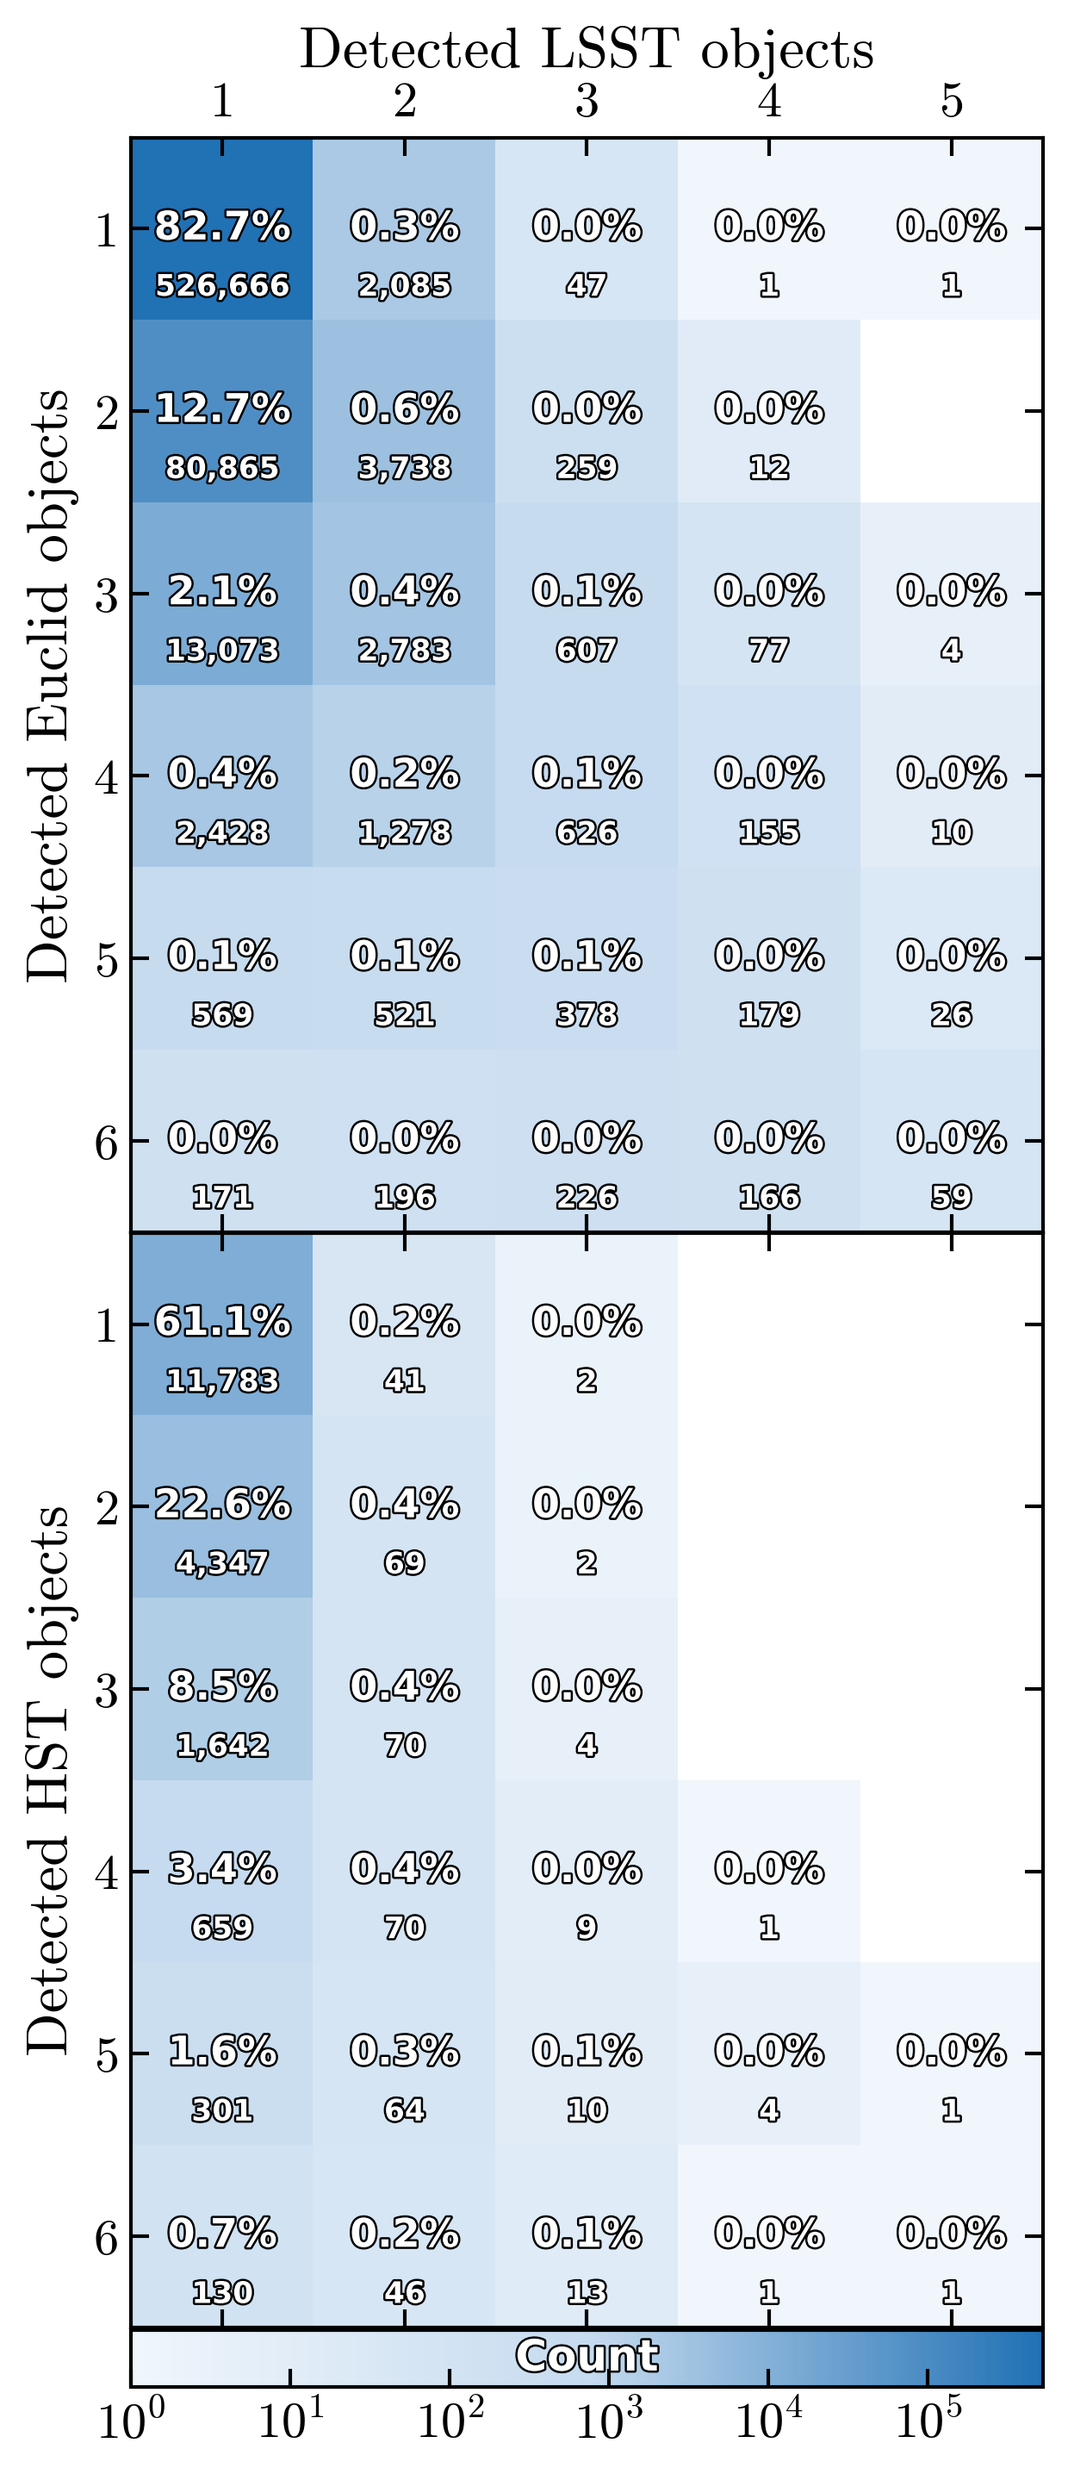
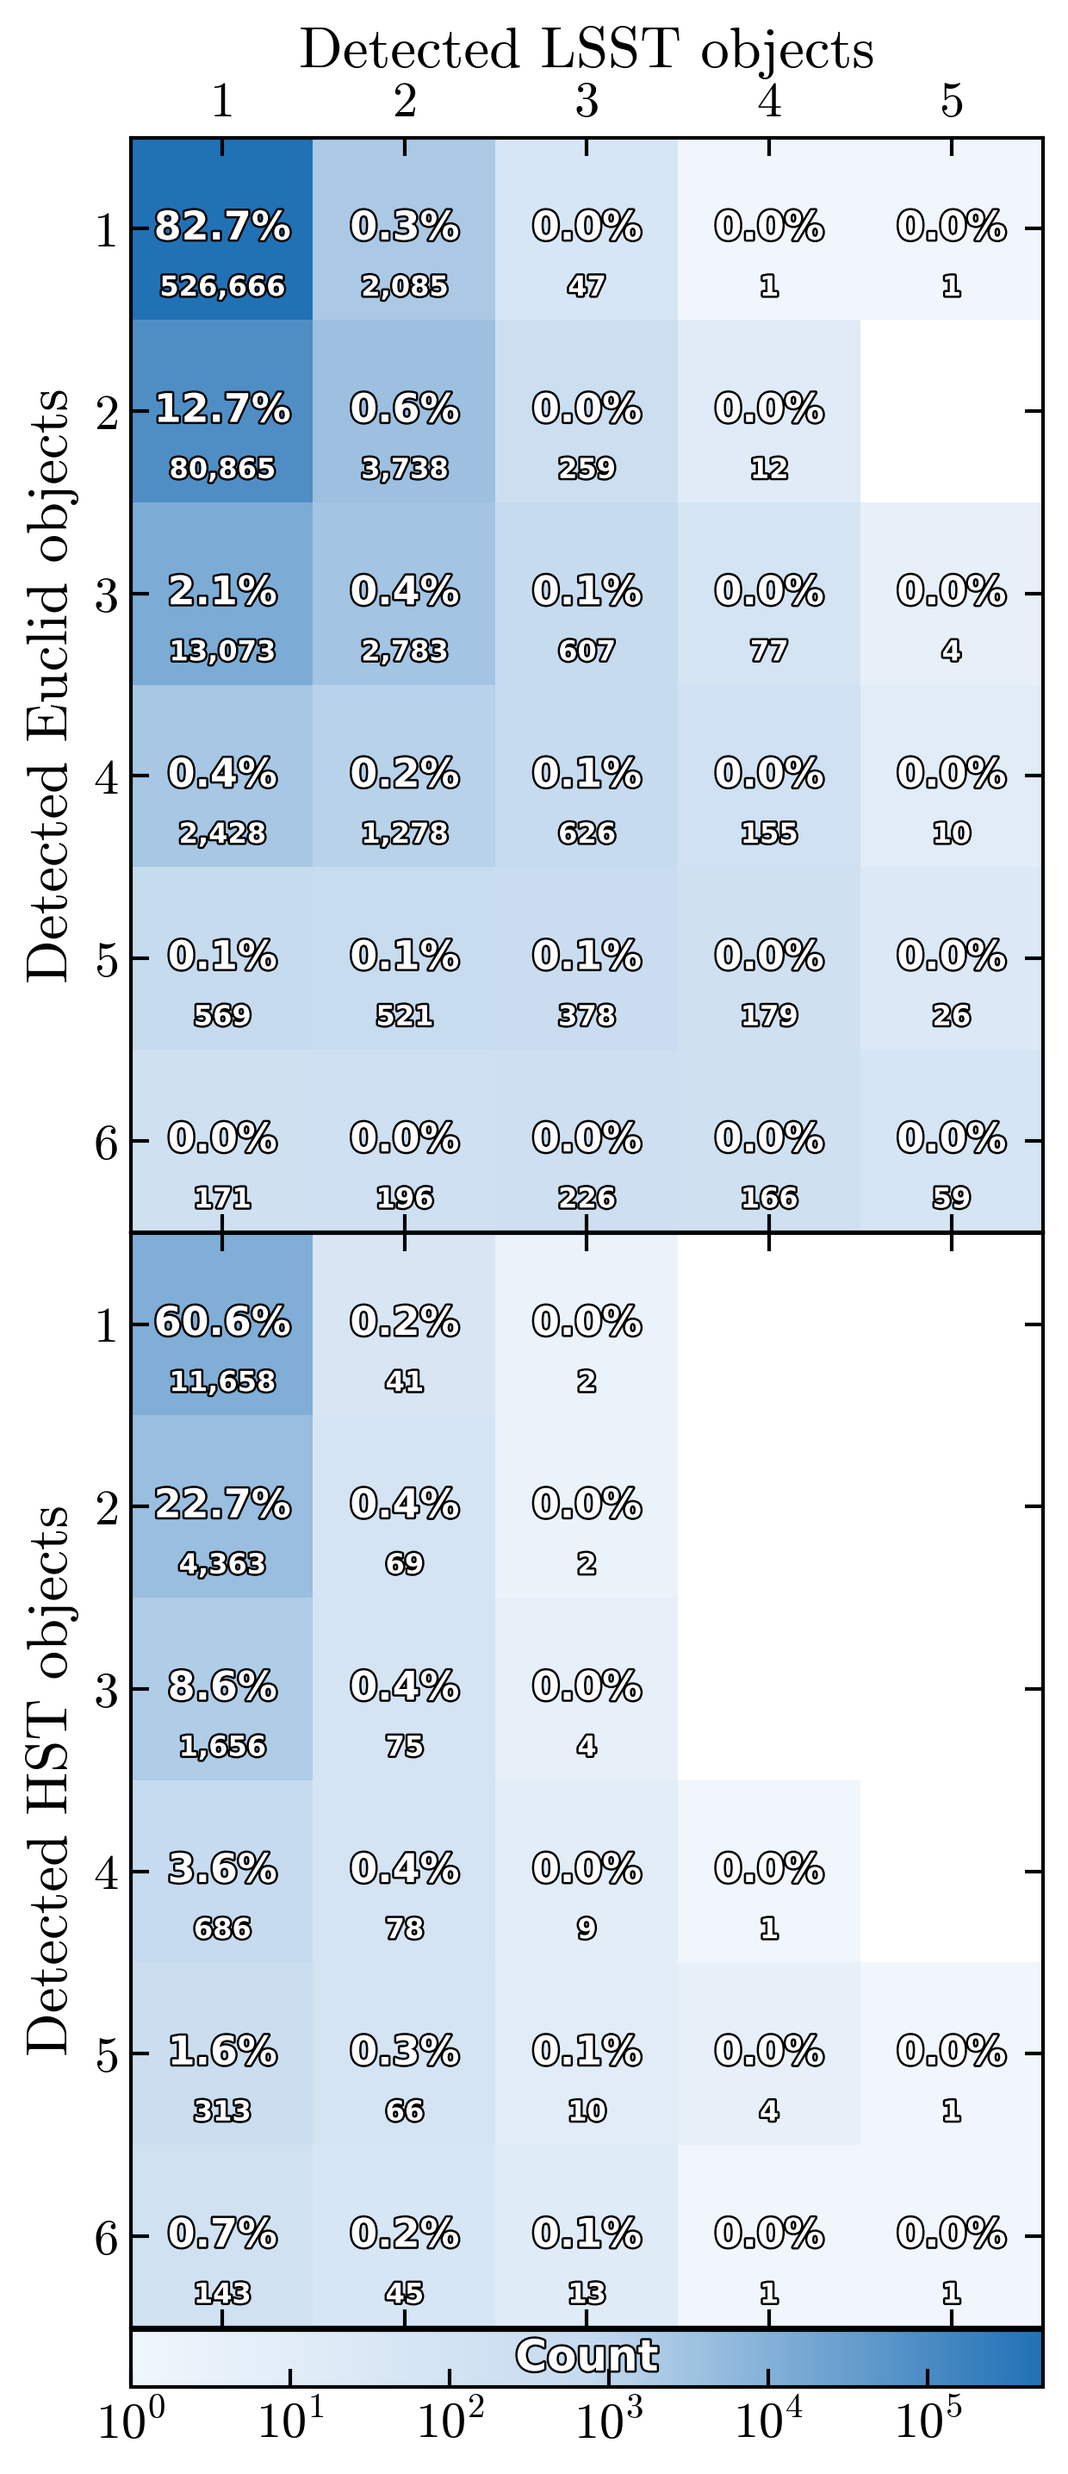
Fixed HST fit bug and modified the technote

diff --git a/index.md b/index.md
@@ -7,15 +7,15 @@ Unrecognized blends, objects that correspond to several truth sources, are a kno
 
 ## Introduction
 
-Blending, where multiple sources visually overlap on the sky, is expected to be a significant source of uncertainty for Stage-IV ground-based surveys like LSST {cite}`Melchior21`. Blended sources can often be identified and deblended. Unrecognized blends are a distinct case: objects that are detected as a single source in the survey data but that correspond to several distinct truth sources. Because the pipeline treats them as isolated objects, their properties (fluxes, colors, shapes) cannot be measured accurately or independently, and they are not flagged as blends. One way to study blending is to compare data from different telescopes with different resolutions and depths. Space-based observations have a higher angular resolution than ground-based ones because they are not affected by atmospheric turbulence, which broadens the point spread function (PSF), so blends unrecognized in ground-based images may be resolved in space-based images.
+Blending, where multiple sources visually overlap on the sky, is expected to be a significant source of uncertainty for Stage-IV ground-based surveys like LSST {cite}`Dawson16,Chang13,Melchior21`. Blended sources can often be identified and deblended. Unrecognized blends are a distinct case: objects that are detected as a single source in the survey data but that correspond to several distinct truth sources. Because the pipeline treats them as isolated objects, their properties (fluxes, colors, shapes) cannot be measured accurately or independently, and they are not flagged as blends. One way to study blending is to compare data from different telescopes with different resolutions and depths. Space-based observations have a higher angular resolution than ground-based ones because they are not affected by atmospheric turbulence, which broadens the point spread function (PSF), so blends unrecognized in ground-based images may be resolved in space-based images.
 
-In this note, we use Euclid DR1 and HST imaging of the Extended Chandra Deep Field South to measure the fraction of unrecognized blends in the LSST DP2 datasets as a function of magnitude, and we quantify how ambiguous these blends are with the blending entropy {cite}`Ramel26`, a continuous metric that, unlike a binary match, is largely insensitive to the depth of the reference survey.
+In this note, we use Euclid DR1 and HST imaging of the Extended Chandra Deep Field South to measure the fraction of unrecognized blends in the LSST DP2 dataset as a function of magnitude, and we quantify how ambiguous these blends are with the blending entropy {cite}`Ramel26`, a continuous metric that, unlike a binary match, is largely insensitive to the depth of the reference survey.
 
 ## Data
 
 The Extended Chandra Deep Field South (ECDFS) is a deep survey field that has been observed by many telescopes at different wavelengths due to its low Galactic extinction {cite}`Lehmer05`. In this note, we use imaging of the ECDFS from three facilities.
 
-- **Rubin LSST:** Rubin Observatory's Data Previews are early releases that precede LSST Data Release 1. Data Preview 1 (DP1) {cite}`RTN-095` is based on commissioning observations from the LSST Commissioning Camera (LSSTCam's smaller predecessor, ComCam) and includes ECDFS among its fields. Data Preview 2 (DP2) {cite}`RTN-115` is the first preview based entirely on data from the full LSST Science Camera (LSSTCam) and also covers the ECDFS. Both have a pixel scale of 0.2 arcsec/pixel. To access the LSST DP2 data, we use the Rubin Science Platform (RSP) and the `butler` API. The following parameters are used to specify the repository, collection, skymap, and catalog:
+- **Rubin LSST:** Rubin Observatory's Data Preview 2 (DP2) {cite}`RTN-115` are early releases based on commissioning observations from the LSST Science Camera (LSSTCam). Both have a pixel scale of 0.2 arcsec/pixel. To access the LSST DP2 data on ECDFS, we use the Rubin Science Platform (RSP) and the `butler` API. The following parameters are used to specify the repository, collection, skymap, and catalog:
 
 ```python
 repo='dp2_prep'
@@ -46,18 +46,18 @@ Top: Sky density of LSST DP2 galaxies in the ECDFS field. The map shows all 3.6 
 Bottom: One tenth of the detected galaxies in the ECDFS observed by LSST, Euclid and HST.
 ```
 
-The Euclid ECDFS footprint has an area of 3.56 deg{sup}`2` and contains 1,469,382 galaxies detected in the VIS band and 682,780 objects detected in the LSST DP2 dataset.\
+The Euclid ECDFS footprint has an area of 3.56 deg{sup}`2` and contains 1,469,382 galaxies detected in the VIS band and 682,780 objects detected in the LSST DP2 dataset.
 The HST ECDFS footprint has an area of 0.18 deg{sup}`2` and contains 165,776 galaxies detected in the F814W band and 33,240 objects detected in the LSST DP2 dataset.
 
-In the following sections, we will refer to sources detected in the LSST DP datasets as *objects* and to sources detected in the Euclid and HST datasets as (reference) *galaxies*. We call *unrecognized blends* the objects that are matched with more than one reference galaxy. Unless stated otherwise, all plots are for the LSST DP2 dataset.
+In the following sections, we will refer to sources detected in the LSST DP2 dataset as *objects* and to sources detected in the Euclid and HST datasets as (reference) *galaxies*. We call *unrecognized blends* the objects that are matched with more than one reference galaxy.
 
 ## Methods
 
 The pipeline described below is available at [https://github.com/LSSTDESC/copaings](https://github.com/LSSTDESC/copaings). The plots in this technote were generated using this same code.
 
-### Matching LSST DP catalogs with Euclid and HST
+### Matching LSST DP2 catalog with Euclid and HST
 
-We match the sources detected in the LSST DP datasets with those from Euclid and HST using a two-step process:
+We match the sources detected in the LSST DP2 dataset with those from Euclid and HST using a two-step process:
 
 1. Friends-of-friends (FoF) catalog matching {cite}`FoFMatching`: pairs of "friends" within a specified linking length are connected iteratively and transitively, and their associated groups are merged. It starts with each object as its own group, then recursively merges groups if any member of one group is within the linking length of any member of another. The choice of linking length defines the scale of the resulting structures. We chose a linking length of 2 arcsec to make coarse groups, in which all elements are initially connected to each other. This length is larger than the typical size of the PSF-convolved ellipses, and we checked that larger linking lengths have a negligible impact on our results.
 2. Ellipse Overlap Test (EOT): For each element (either an object or a galaxy) in each group, we define an elliptical footprint computed from the semi-major and semi-minor axes and the position angle of the detection. For that footprint, we also account for the effect of the local LSST PSF by convolving the ellipse with it. Starting from densely connected FoF groups, we perform a geometric test to determine whether the ellipses of each pair of elements overlap. If there is no overlap between two elements, we remove their link. If non-overlapping subsets are found, we split the group into subgroups until all elements in each group are connected through overlapping ellipses. We discard groups made of a single element (object or galaxy).
@@ -73,7 +73,8 @@ From this matching, we compute the number of objects and galaxies per group, as 
 Results of the LSST–Euclid and LSST–HST cross-matching with the FoF+EOT method. Each bin of the 2D histogram counts the groups with a given number of objects (LSST detections, in columns) and galaxies (Euclid detections, top, or HST detections, bottom, in rows). The colorbar indicates the number of groups in each bin.
 ```
 
-By construction, an unrecognized blend belongs to a group with at least two galaxies. Groups with more galaxies than objects, in the lower-left part of {numref}`fig-nm-groups`, are those in which LSST detects fewer sources than the reference survey.
+<!-- By construction, an unrecognized blend belongs in a group with at least two galaxies.  -->
+Groups with more galaxies than objects, in the lower-left part of {numref}`fig-nm-groups`, are those in which LSST detects fewer sources than the reference survey defined as unrecognized blends.
 
 ### Blending entropy
 
@@ -89,7 +90,7 @@ $p_\text{og}$ is the matching probability of object $o$ with galaxy $g$, given b
 :name: fig-high-sb-image
 :alt: High Sb
 
-Example of a high-$S_\text{b}$ blend. Top: LSST DP2 cutout with $i,r,g$ bands corresponding to red, green and blue respectively. Middle: Euclid VIS. Bottom: HST F814W. The object from the LSST detection is represented by the blue ellipse; galaxies from the Euclid and HST detections are represented by the orange and green ellipses, respectively. The Euclid and HST ellipses were convolved with the LSST PSF to account for the difference in resolution.
+Example of a high-$S_\text{b}$ blend. Upper left: LSST DP2 cutout with $i,r,g$ bands corresponding to red, green and blue respectively. Upper right: Euclid VIS. Bottom right: HST F814W. The object from the LSST detection is represented by the blue ellipse; galaxies from the Euclid and HST detections are represented by the orange and green ellipses, respectively. The Euclid and HST ellipses were convolved with the LSST PSF to account for the difference in resolution.
 ```
 
 {numref}`fig-high-sb-image` shows an example of a high-blending-entropy system with one object and two galaxies. The object overlaps with both galaxies and has a similar magnitude to both of them, making its association with either of the two galaxies ambiguous.
@@ -99,13 +100,13 @@ The blending entropy for this object is $S_\text{b} = 0.66$.
 :name: fig-low-sb-image
 :alt: Low Sb
 
-Example of a low-$S_\text{b}$ blend. Top: LSST DP2 cutout with $i,r,g$ bands corresponding to red, green and blue respectively. Middle: Euclid VIS. Bottom: HST F814W. The object from the LSST detection is represented by the blue ellipse; galaxies from the Euclid and HST detections are represented by the orange and green ellipses, respectively. The Euclid and HST ellipses were convolved with the LSST PSF to account for the difference in resolution.
+Example of a low-$S_\text{b}$ blend. Upper left: LSST DP2 cutout with $i,r,g$ bands corresponding to red, green and blue respectively. Upper right: Euclid VIS. Bottom right: HST F814W. The object from the LSST detection is represented by the blue ellipse; galaxies from the Euclid and HST detections are represented by the orange and green ellipses, respectively. The Euclid and HST ellipses were convolved with the LSST PSF to account for the difference in resolution.
 ```
 
 Conversely, {numref}`fig-low-sb-image` shows an example of a low-blending-entropy system with one object and two galaxies. One of the Euclid detections overlaps almost entirely with the LSST detection, while the other overlaps only partially and is more than one magnitude fainter. The LSST detection is therefore unambiguously matched with the brighter Euclid detection.
 The blending entropy for this object is $S_\text{b} = 0.08$.
 
-The blending entropy compares the magnitude $m_\text{o}$ of each LSST object with the magnitudes $m_\text{g}$ of the reference galaxies, which requires both to be measured in the same band. Since Euclid and HST observe in the VIS and F814W bands, which have no exact LSST counterpart ({numref}`fig-bandpasses`), we predict for each LSST object its VIS or F814W magnitude from its LSST photometry, using the closest LSST bands: $griz$ for Euclid and $i$ for HST. The relation between the LSST magnitudes of an object and the measured VIS or F814W magnitude of its reference galaxy is fitted on one-to-one systems only, where both measurements refer to the same galaxy and the photometry is cleanest. This relation is then applied to every object in the LSST DP datasets, and the predicted magnitude is used as $m_\text{o}$ in the definition of $S_\text{b}$.
+The blending entropy compares the magnitude $m_\text{o}$ of each LSST object with the magnitudes $m_\text{g}$ of the reference galaxies, which requires both to be measured in the same band. Since Euclid and HST observe in the VIS and F814W bands, which have no exact LSST counterpart ({numref}`fig-bandpasses`), we predict for each LSST object its VIS or F814W magnitude from its LSST photometry, using the closest LSST bands: $griz$ for Euclid and $i$ for HST. The relation between the LSST magnitudes of an object and the measured VIS or F814W magnitude of its reference galaxy is fitted on one-to-one systems only, where both measurements refer to the same galaxy and the photometry is cleanest. This relation is then applied to every object in the LSST DP2 dataset, and the predicted magnitude is used as $m_\text{o}$ in the definition of $S_\text{b}$.
 
 
 For Euclid, the predicted VIS magnitude depends on the $r$-band magnitude and on the $g-r$, $r-i$ and $i-z$ colors:
@@ -135,7 +136,7 @@ The fitted coefficients are given in {ref}`appendix-fit-coeffs`.
 Verification of the VIS magnitude and F814W magnitude fits. Left: The x-axis is the measured VIS magnitude from Euclid and the y-axis is the predicted VIS magnitude from the LSST DP2 photometry. Right: The x-axis is the measured F814W magnitude from HST and the y-axis is the predicted F814W magnitude from the LSST DP2 photometry. The colorbar indicates the number of objects in each bin. The red line shows $x=y$.
 ```
 
-{numref}`fig-duo-fit` shows that the magnitudes predicted from the LSST DP2 photometry reproduce the measured space-based magnitudes, with a median absolute deviation of about 0.2 mag for both VIS and F814W. For each object in the LSST DP datasets, we can therefore compute the blending entropy with Euclid as the reference, using the VIS magnitude predicted from its $griz$ photometry, or with HST, using the F814W magnitude predicted from its $i$-band photometry.
+{numref}`fig-duo-fit` shows that the magnitudes predicted from the LSST DP2 photometry reproduce the measured space-based magnitudes, with a median absolute deviation of about 0.2 mag for both VIS and F814W. For each object in the LSST DP2 dataset, we can therefore compute the blending entropy with Euclid as the reference, using the VIS magnitude predicted from its $griz$ photometry, or with HST, using the F814W magnitude predicted from its $i$-band photometry.
 
 
 
@@ -143,7 +144,7 @@ Verification of the VIS magnitude and F814W magnitude fits. Left: The x-axis is 
 
 Integrated over all magnitudes, 16.1% of LSST DP2 objects are unrecognized blends when compared to Euclid and 38.7% when compared to HST ({numref}`fig-nm-groups`). As expected from the differences in depth and resolution between the two reference surveys, these fractions differ by almost a factor of 2.5. We now examine how they depend on magnitude and use the blending entropy to determine how ambiguous these blends are.
 
-To do so, we use the blending entropy computed for each LSST DP2 object. Objects with $S_\text{b} > 0$ are matched with more than one galaxy and are therefore unrecognized blends, while objects with $S_\text{b} = 0$ are matched with a single galaxy. Among unrecognized blends, we call *ambiguous blends* those with $S_\text{b} > 0.2$, i.e. whose galaxy association is ambiguous; see {cite:t}`Ramel26` for a detailed justification of this threshold. {numref}`fig-mag-highsb` shows the fractions of both populations as a function of LSST $i$-band magnitude.
+To do so, we use the blending entropy computed for each LSST DP2 object. Objects with $S_\text{b} > 0$ are matched with more than one galaxy and are therefore blends, while objects with $S_\text{b} = 0$ are matched with a single galaxy. Among unrecognized blends, we call *ambiguous blends* those with $S_\text{b} > 0.2$, i.e. whose galaxy association is ambiguous; see {cite:t}`Ramel26` for a detailed justification of this threshold. {numref}`fig-mag-highsb` shows the fractions of both populations as a function of LSST $i$-band magnitude.
 
 ```{figure} ./assets/plots/DR1_duo_plot_mag_highsb.png
 :name: fig-mag-highsb
@@ -158,7 +159,7 @@ a) Distribution of detection magnitudes for LSST (blue), Euclid (orange) and HST
 
 After applying the $S_\text{b} > 0.2$ cut, the fractions of ambiguous blends obtained with the two reference surveys agree up to $i \simeq 24$, where 20% of DP2 objects are ambiguous blends with either Euclid or HST as reference. The difference between the two $S_\text{b} > 0$ curves at brighter magnitudes therefore comes from faint galaxies detected by HST but not by Euclid: the corresponding blends are not ambiguous, since the LSST detection is unambiguously associated with the brighter galaxy of the blend. Perfect agreement between the two references is not expected: the fractions are computed over different footprints, and the HST footprint covers only 0.18 deg{sup}`2`, about 20 times less than the Euclid one, so that the HST fractions are subject to significant sample variance.
 
-In summary, the fraction of unrecognized blends in DP2 depends strongly on the depth and resolution of the reference survey, from 16% with Euclid to 38.7% with HST, but most of this difference comes from faint companions that do not make the galaxy association ambiguous. The fraction of ambiguous blends is, in contrast, robust to the choice of reference survey down to the Euclid depth limit, with about one in five DP2 objects being an ambiguous blend at $i \simeq 24$.
+<!-- In summary, the fraction of unrecognized blends in DP2 depends strongly on the depth and resolution of the reference survey, from 16% with Euclid to 38.7% with HST, but most of this difference comes from faint companions that do not make the galaxy association ambiguous. The fraction of ambiguous blends is, in contrast, robust to the choice of reference survey down to the Euclid depth limit, with about one in five DP2 objects being an ambiguous blend at $i \simeq 24$. -->
 
 ## Discussion
 
@@ -189,8 +190,8 @@ Euclid VIS fit:
 
 HST F814W fit:
 
-- $c_0 = -1.249$
-- $c_i = 1.005$
+- $c_0 = 0.043$
+- $c_i = 0.995$
 
 ## References
 
